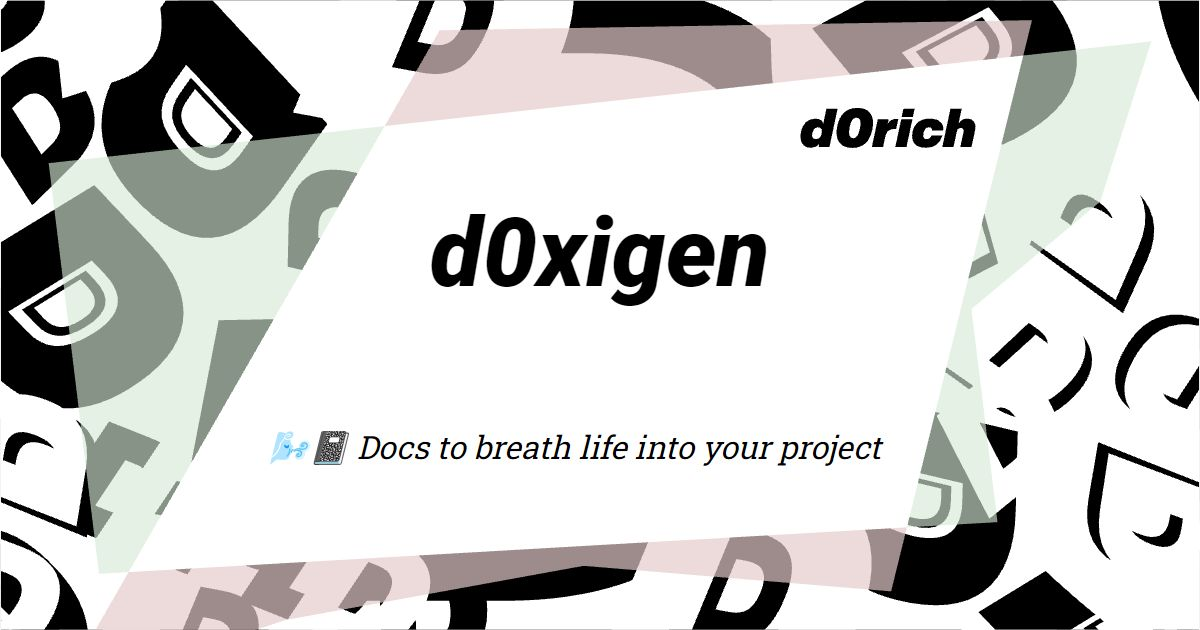
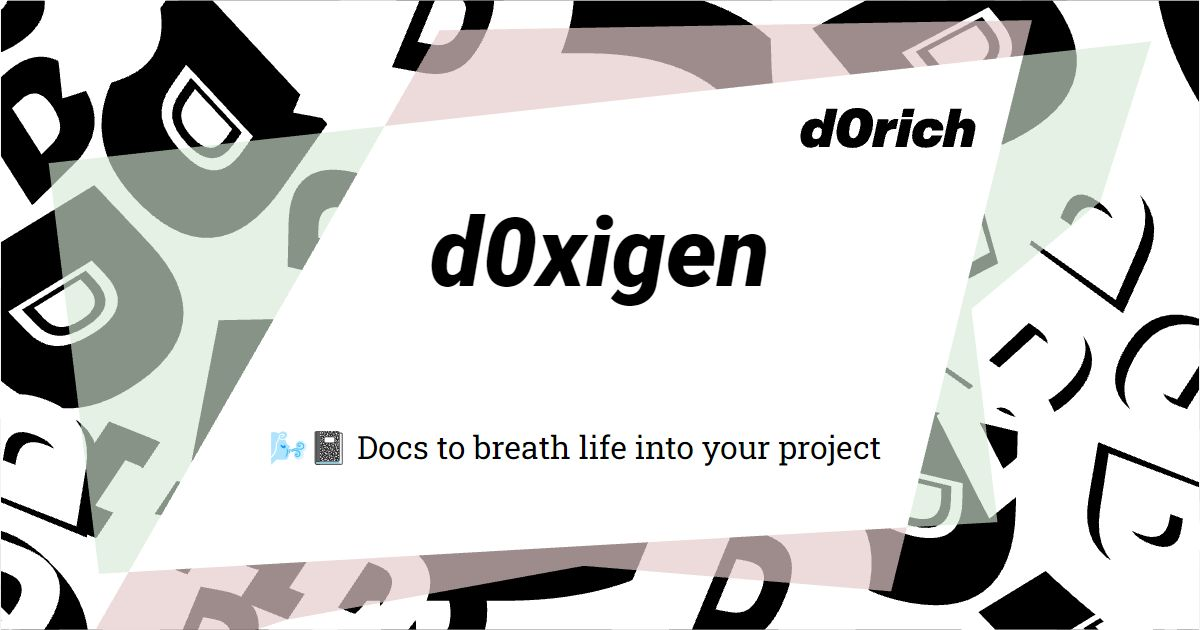
Adjust OG image size (#22)
* Adjust OG image size

* Modify generator tag

* Update d0xigen OG image

* Add custom emoji to a projects

* lintfix

* Add changelog

Changed region(s): [[0.2158, 0.6635, 0.74, 0.7238]]

diff --git a/packages/d0xigen/nuxt.config.ts b/packages/d0xigen/nuxt.config.ts
@@ -1,6 +1,11 @@
 import { fileURLToPath } from 'url'
 import { dirname, join } from 'path'
+import fs from 'fs'
 const currentDir = dirname(fileURLToPath(import.meta.url))
+
+const packageJson = JSON.parse(
+  fs.readFileSync(join(currentDir, 'package.json'), 'utf-8')
+)
 
 // https://v3.nuxtjs.org/api/configuration/nuxt.config
 export default defineNuxtConfig({
@@ -35,7 +40,8 @@ export default defineNuxtConfig({
   runtimeConfig: {
     public: {
       isDev: process.env.NODE_ENV === 'development',
-      isProd: process.env.NODE_ENV === 'production'
+      isProd: process.env.NODE_ENV === 'production',
+      version: packageJson.version
     }
   },
   colorMode: {

diff --git a/packages/d0xigen/app.vue b/packages/d0xigen/app.vue
@@ -14,9 +14,11 @@ useSeoMeta({
   description: appConfig.d0xigen.description,
   ogDescription: appConfig.d0xigen.description,
   author: appConfig.d0xigen.author,
-  generator: 'Nuxt 3',
+  generator: `d0xigen v${useRuntimeConfig().public.version}`,
   ogSiteName: appConfig.d0xigen.title,
   ogImage: appConfig.d0xigen.url + appConfig.d0xigen.og.image,
+  twitterImage: appConfig.d0xigen.url + appConfig.d0xigen.og.image,
+  twitterCard: 'summary_large_image',
   ogUrl: computed(() => appConfig.d0xigen.url + route.path)
 })
 </script>

diff --git a/apps/d0rich.me/components/projects/Tile.vue b/apps/d0rich.me/components/projects/Tile.vue
@@ -84,7 +84,7 @@ defineProps<{
 
 <style>
 .project-tile {
-  @apply relative isolate;
+  @apply relative isolate font-sans;
 }
 
 .project-tile__frame--top,

diff --git a/.changeset/brown-rules-destroy.md b/.changeset/brown-rules-destroy.md
@@ -1,0 +1,5 @@
+---
+'d0xigen': minor
+---
+
+Display d0xigen as generator in meta tag

diff --git a/.changeset/twenty-schools-vanish.md b/.changeset/twenty-schools-vanish.md
@@ -1,0 +1,5 @@
+---
+'d0xigen': minor
+---
+
+Make images big in OpenGraph
